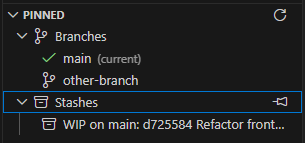
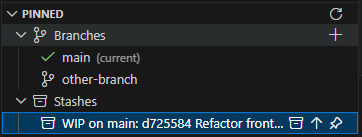
Add branch from list

diff --git a/src/extension.ts b/src/extension.ts
@@ -46,6 +46,36 @@ export async function activate(context: vscode.ExtensionContext) {
     },
   );
 
+  // Command: Pin branch from list
+  const pinBranchFromListCommand = vscode.commands.registerCommand(
+    'git-pin.pinBranchFromList',
+    async () => {
+      const allBranches = await gitHelper.getAllBranches();
+      if (allBranches.length === 0) {
+        vscode.window.showInformationMessage('No branches found');
+        return;
+      }
+
+      const pinnedBranches = pinnedItemsProvider.getPinnedBranches();
+      const unpinnedBranches = allBranches.filter(
+        (b) => !pinnedBranches.includes(b),
+      );
+
+      if (unpinnedBranches.length === 0) {
+        vscode.window.showInformationMessage('All branches are already pinned');
+        return;
+      }
+
+      const selected = await vscode.window.showQuickPick(unpinnedBranches, {
+        placeHolder: 'Select a branch to pin',
+      });
+
+      if (selected) {
+        await pinnedItemsProvider.pinBranch(selected);
+      }
+    },
+  );
+
   // Command: Unpin branch
   const unpinBranchCommand = vscode.commands.registerCommand(
     'git-pin.unpinBranch',
@@ -186,6 +216,7 @@ export async function activate(context: vscode.ExtensionContext) {
   // Register all commands
   context.subscriptions.push(
     pinCurrentBranchCommand,
+    pinBranchFromListCommand,
     unpinBranchCommand,
     checkoutBranchCommand,
     refreshCommand,

diff --git a/README.md b/README.md
@@ -18,30 +18,31 @@ A Visual Studio Code extension that allows you to pin your favorite Git branches
 
 ### Pin a Branch
 
-1. Switch to the branch you want to pin
-2. In the "Pinned" view, hover the **Branches** section and click its pin icon
-3. Or use the Command Palette: `Pin Current Branch`
+1. In the "Pinned" view, hover the **Branches** section and click the **`+`** icon
+2. Select the branch you want to pin from the list
+3. Or use the Command Palette: `Git Pin: Pin Branch`
+
+Alternatively, switch to the branch you want to pin and use the Command Palette: `Git Pin: Pin Current Branch`
 
 ### Checkout a Pinned Branch
 
 - Expand **Branches** inside the "Pinned" view and click a branch to check it out
-- Or click the branch icon next to the branch name
 
 ### Unpin a Branch
 
 - Click the unpin icon next to a pinned branch in the view
-- Or use the Command Palette: `Unpin Branch` and select from the list
+- Or use the Command Palette: `Git Pin: Unpin Branch` and select from the list
 
 ### Pin a Stash
 
 1. In the "Pinned" view, hover the **Stashes** section and click its pin icon
 2. Select the stash you want to pin from the list
-3. Or use the Command Palette: `Pin Stash`
+3. Or use the Command Palette: `Git Pin: Pin Stash`
 
 ### Apply a Pinned Stash
 
 - Expand **Stashes** inside the "Pinned" view
-- Click the archive icon (apply) or trash icon (pop) on a stash item
+- Click the archive icon (apply) or arrow icon (pop) on a stash item
 - Left icon applies the stash (keeps it in the stash list)
 - Right icon pops the stash (applies and removes it)
 - The stash will be applied to your working directory (equivalent to `git stash apply` or `git stash pop`)
@@ -49,7 +50,7 @@ A Visual Studio Code extension that allows you to pin your favorite Git branches
 ### Unpin a Stash
 
 - Click the unpin icon next to a pinned stash in the view
-- Or use the Command Palette: `Unpin Stash` and select from the list
+- Or use the Command Palette: `Git Pin: Unpin Stash` and select from the list
 
 ### Refresh the View
 
@@ -81,7 +82,8 @@ This extension contributes the following commands:
 
 **Branch Commands:**
 
-- `git-pin.pinCurrentBranch` - Pin the current Git branch
+- `git-pin.pinBranchFromList` - Pick any branch from a list and pin it
+- `git-pin.pinCurrentBranch` - Pin the currently checked-out branch
 - `git-pin.unpinBranch` - Unpin a branch
 - `git-pin.checkoutBranch` - Checkout a pinned branch
 - `git-pin.refresh` - Refresh the unified pinned view
@@ -118,7 +120,7 @@ vsce package
 This creates a `.vsix` file that you can install manually:
 
 ```bash
-code --install-extension git-pin-0.2.0.vsix
+code --install-extension git-pin-0.2.4.vsix
 ```
 
 ## Extension Settings
@@ -131,6 +133,13 @@ This extension stores pinned branches and stashes in the workspace state. No add
 - Remote branches are supported but may show as "not found" if not fetched locally
 
 ## Release Notes
+
+### 0.2.4
+
+New features:
+
+- Added **`+`** button on the Branches section header to pin any branch from a list without switching to it first
+- The picker automatically excludes already-pinned branches
 
 ### 0.2.3
 
